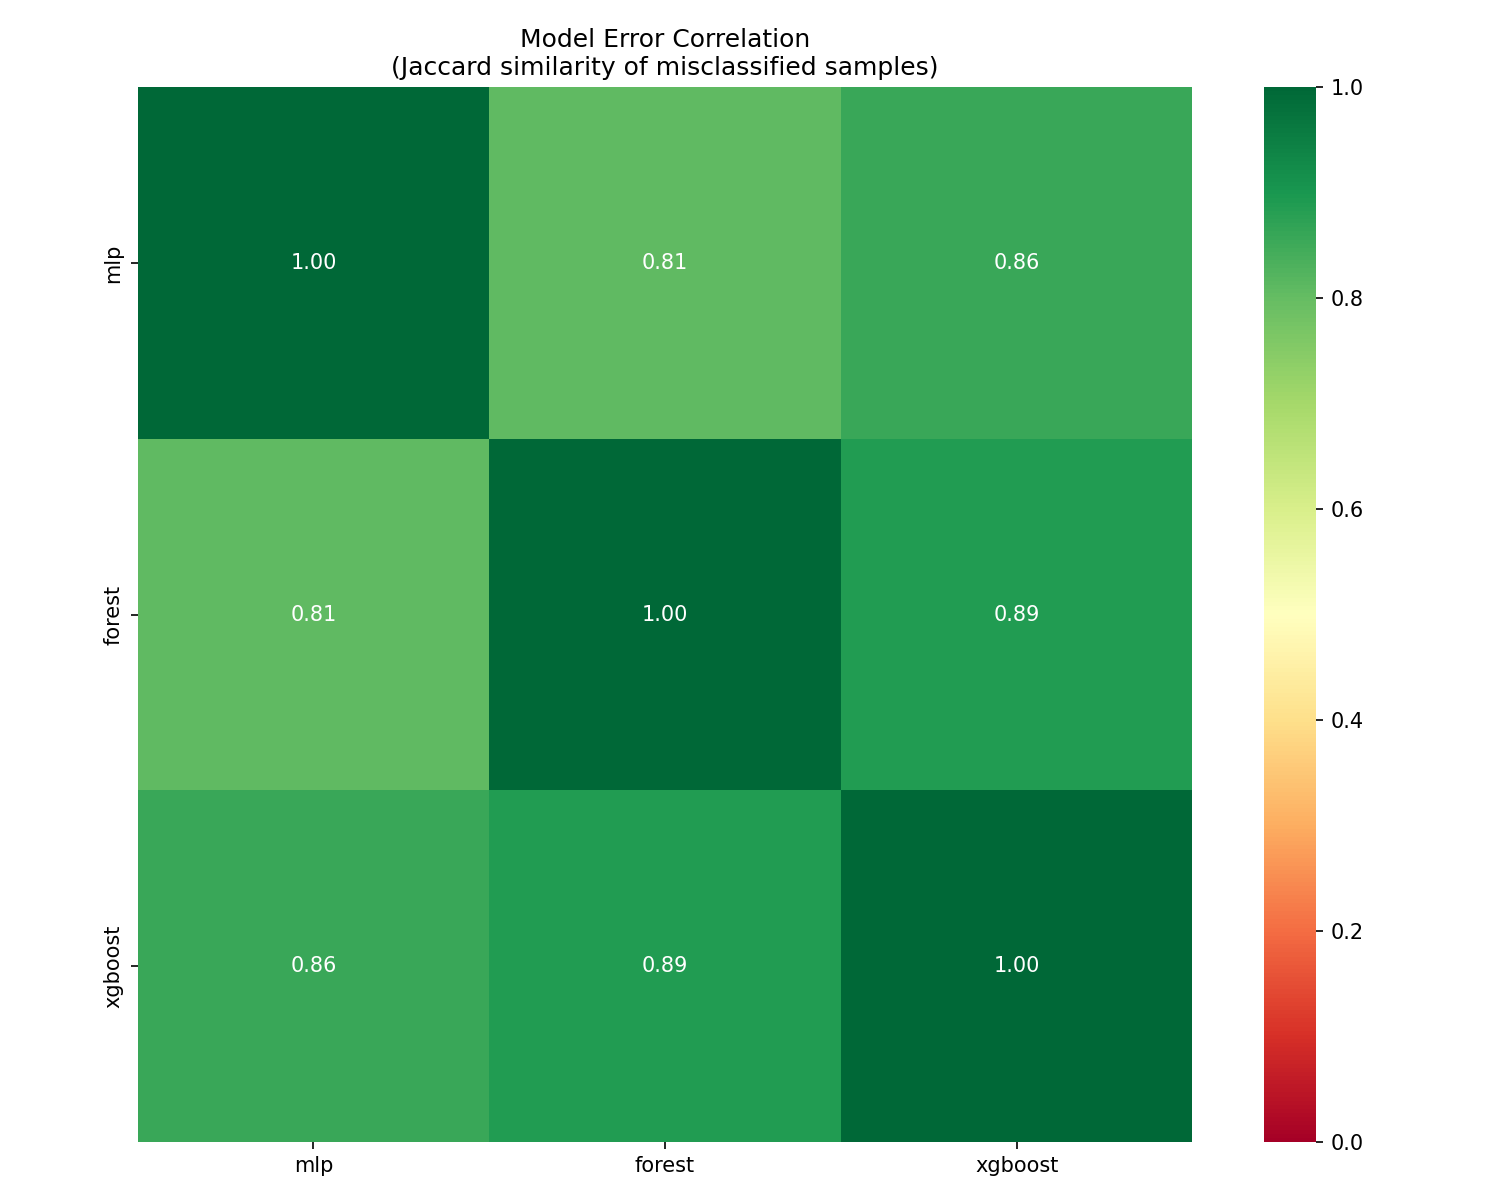
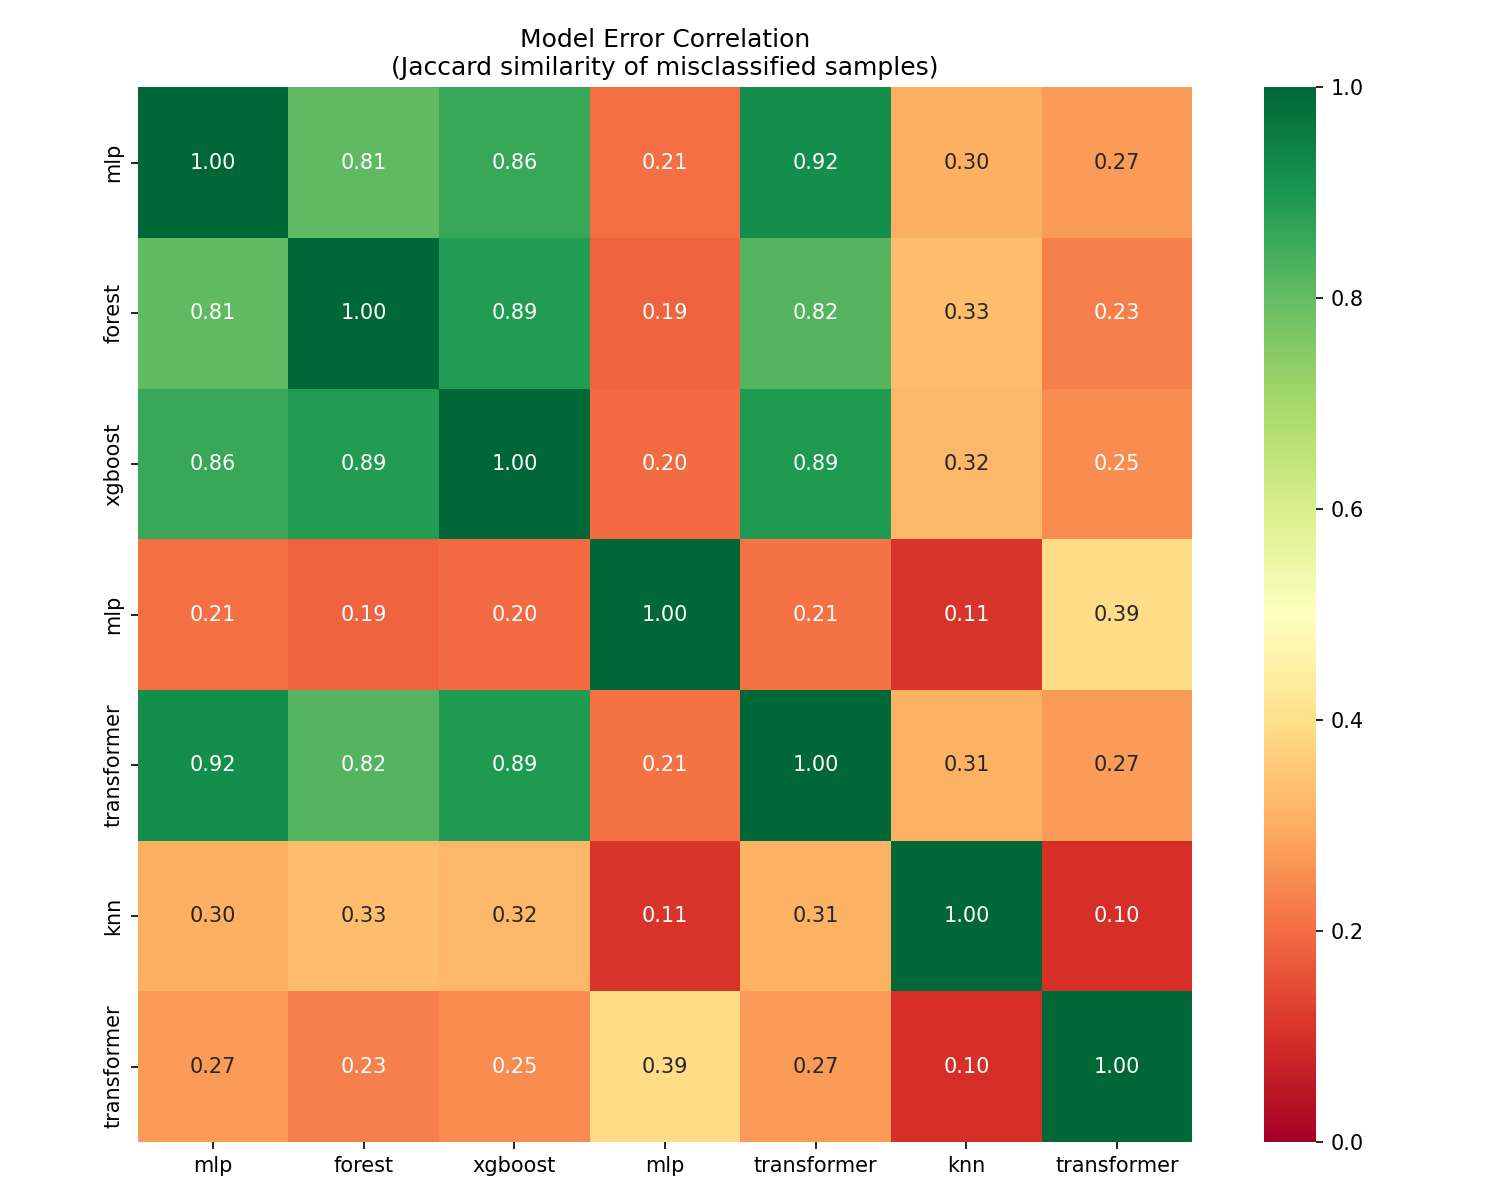
Nathan: finished small experiments

diff --git a/results_analysis/network/report.md b/results_analysis/network/report.md
@@ -1,6 +1,6 @@
 # Analysis Report: Network Dataset
 
-Generated: 2026-01-15 00:02:15
+Generated: 2026-01-15 07:25:35
 
 ---
 
@@ -11,8 +11,12 @@ Ranked by F1 (macro) score on test set.
 | Rank | Experiment Name | Accuracy | F1 (macro) | Balanced Acc | MCC | Time (s) |
 |------|---|---|---|---|---|---|
 | 1 | `2026-01-14_23-14-58_network_small_random_forest` | 0.8760 | 0.8688 | 0.9592 | 0.5627 | 43.0 |
-| 2 | `2026-01-14_23-01-53_network_small_mlp` | 0.8510 | 0.7718 | 0.9585 | 0.5333 | 745.1 |
-| 3 | `2026-01-14_23-39-12_network_small_xgboost` | 0.8663 | 0.6134 | 0.7095 | 0.5515 | 26.5 |
+| 2 | `2026-01-15_00-55-56_network_small_knn` | 0.8990 | 0.8368 | 0.8442 | 0.3495 | 5.3 |
+| 3 | `2026-01-15_00-11-13_network_small_ft_transformer` | 0.8552 | 0.7743 | 0.9598 | 0.5401 | 2673.9 |
+| 4 | `2026-01-14_23-01-53_network_small_mlp` | 0.8510 | 0.7718 | 0.9585 | 0.5333 | 745.1 |
+| 5 | `2026-01-15_01-05-22_network_small_tab_transformer` | 0.4656 | 0.7042 | 0.8548 | 0.2300 | 2786.7 |
+| 6 | `2026-01-14_23-39-12_network_small_xgboost` | 0.8663 | 0.6134 | 0.7095 | 0.5515 | 26.5 |
+| 7 | `2026-01-14_23-49-15_network_small_attention_mlp` | 0.6476 | 0.5953 | 0.8121 | 0.1380 | 1308.3 |
 
 ---
 
@@ -22,10 +26,10 @@ Classes with highest error rates across all models.
 
 | Class | Total | Errors | Error Rate |
 |-------|-------|--------|------------|
-| scan | 3 | 1 | 33.33% |
-| normal | 622740 | 90545 | 14.54% |
-| physical fault | 52227 | 964 | 1.85% |
-| anomaly | 30 | 0 | 0.00% |
+| normal | 1453060 | 328475 | 22.61% |
+| physical fault | 121863 | 17847 | 14.65% |
+| scan | 7 | 1 | 14.29% |
+| anomaly | 70 | 0 | 0.00% |
 
 ---
 
@@ -35,26 +39,26 @@ Samples misclassified by most models (top 20).
 
 | Sample | True Label | Times Wrong | Common Prediction |
 |--------|------------|-------------|-------------------|
-| 224998 | normal | 3 | physical fault |
-| 224989 | normal | 3 | physical fault |
-| 224985 | normal | 3 | physical fault |
-| 224983 | normal | 3 | physical fault |
-| 224979 | normal | 3 | physical fault |
-| 224959 | normal | 3 | physical fault |
-| 224954 | normal | 3 | physical fault |
-| 224948 | normal | 3 | physical fault |
-| 224945 | normal | 3 | physical fault |
-| 224941 | normal | 3 | physical fault |
-| 224936 | normal | 3 | physical fault |
-| 224921 | normal | 3 | physical fault |
-| 261 | normal | 3 | physical fault |
-| 259 | normal | 3 | physical fault |
-| 241 | normal | 3 | physical fault |
-| 239 | normal | 3 | physical fault |
-| 224 | normal | 3 | physical fault |
-| 203 | normal | 3 | physical fault |
-| 200 | normal | 3 | physical fault |
-| 199 | normal | 3 | physical fault |
+| 192 | normal | 7 | physical fault |
+| 306 | normal | 7 | physical fault |
+| 191992 | normal | 7 | physical fault |
+| 191640 | normal | 7 | physical fault |
+| 191641 | normal | 7 | physical fault |
+| 191893 | normal | 7 | physical fault |
+| 451 | normal | 7 | physical fault |
+| 276 | normal | 7 | physical fault |
+| 15 | normal | 7 | physical fault |
+| 18 | normal | 7 | physical fault |
+| 27 | normal | 7 | physical fault |
+| 191760 | normal | 7 | physical fault |
+| 191794 | normal | 7 | physical fault |
+| 191825 | normal | 7 | physical fault |
+| 191663 | normal | 7 | physical fault |
+| 191675 | normal | 7 | physical fault |
+| 191455 | normal | 7 | physical fault |
+| 191519 | normal | 7 | physical fault |
+| 191267 | normal | 7 | physical fault |
+| 426 | normal | 7 | physical fault |
 
 ---
 
@@ -64,11 +68,15 @@ Which models make similar mistakes? (Jaccard similarity of error sets)
 
 **Correlation Matrix:**
 
-| Model | mlp | forest | xgboost |
-|-------|---|---|---|
-| mlp | 1.00 | 0.81 | 0.86 |
-| forest | 0.81 | 1.00 | 0.89 |
-| xgboost | 0.86 | 0.89 | 1.00 |
+| Model | mlp | forest | xgboost | mlp | transformer | knn | transformer |
+|-------|---|---|---|---|---|---|---|
+| mlp | 1.00 | 0.81 | 0.86 | 0.21 | 0.92 | 0.30 | 0.27 |
+| forest | 0.81 | 1.00 | 0.89 | 0.19 | 0.82 | 0.33 | 0.23 |
+| xgboost | 0.86 | 0.89 | 1.00 | 0.20 | 0.89 | 0.32 | 0.25 |
+| mlp | 0.21 | 0.19 | 0.20 | 1.00 | 0.21 | 0.11 | 0.39 |
+| transformer | 0.92 | 0.82 | 0.89 | 0.21 | 1.00 | 0.31 | 0.27 |
+| knn | 0.30 | 0.33 | 0.32 | 0.11 | 0.31 | 1.00 | 0.10 |
+| transformer | 0.27 | 0.23 | 0.25 | 0.39 | 0.27 | 0.10 | 1.00 |
 
 ![Correlation Heatmap](correlation/correlation_heatmap.png)
 
@@ -87,4 +95,20 @@ Which models make similar mistakes? (Jaccard similarity of error sets)
 ### 2026-01-14_23-39-12_network_small_xgboost
 
 ![2026-01-14_23-39-12_network_small_xgboost](training_curves/2026-01-14_23-39-12_network_small_xgboost.png)
+
+### 2026-01-14_23-49-15_network_small_attention_mlp
+
+![2026-01-14_23-49-15_network_small_attention_mlp](training_curves/2026-01-14_23-49-15_network_small_attention_mlp.png)
+
+### 2026-01-15_00-11-13_network_small_ft_transformer
+
+![2026-01-15_00-11-13_network_small_ft_transformer](training_curves/2026-01-15_00-11-13_network_small_ft_transformer.png)
+
+### 2026-01-15_00-55-56_network_small_knn
+
+![2026-01-15_00-55-56_network_small_knn](training_curves/2026-01-15_00-55-56_network_small_knn.png)
+
+### 2026-01-15_01-05-22_network_small_tab_transformer
+
+![2026-01-15_01-05-22_network_small_tab_transformer](training_curves/2026-01-15_01-05-22_network_small_tab_transformer.png)
 

diff --git a/results_analysis/physical/report.md b/results_analysis/physical/report.md
@@ -1,6 +1,6 @@
 # Analysis Report: Physical Dataset
 
-Generated: 2026-01-15 00:01:47
+Generated: 2026-01-15 07:24:18
 
 ---
 
